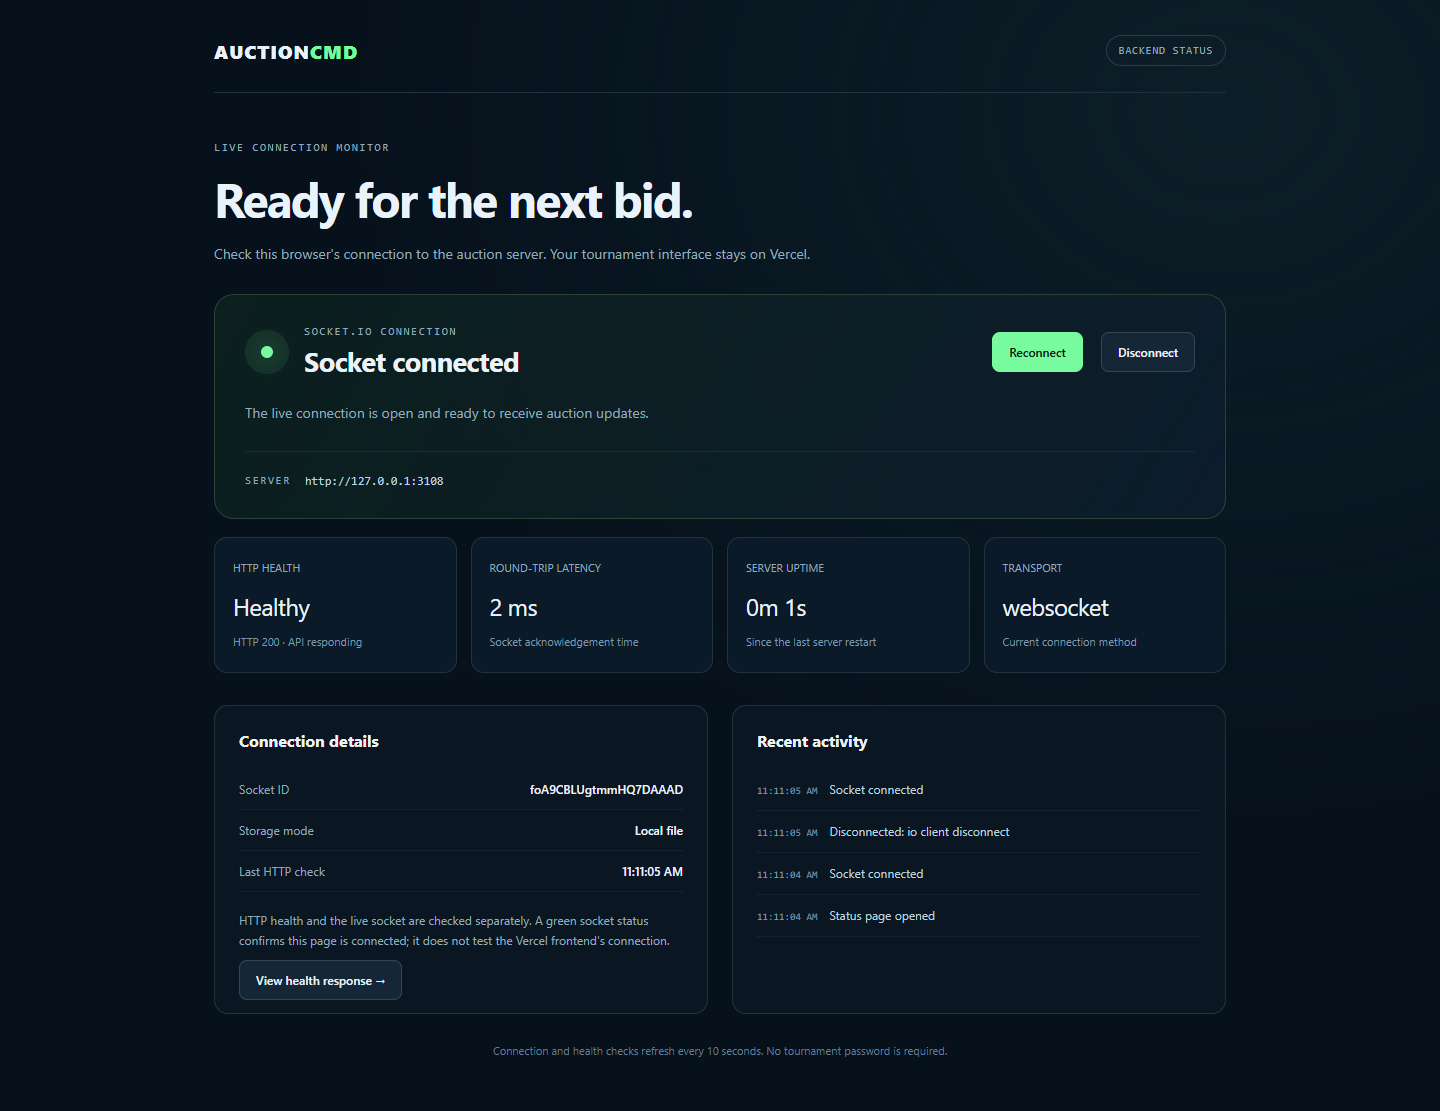
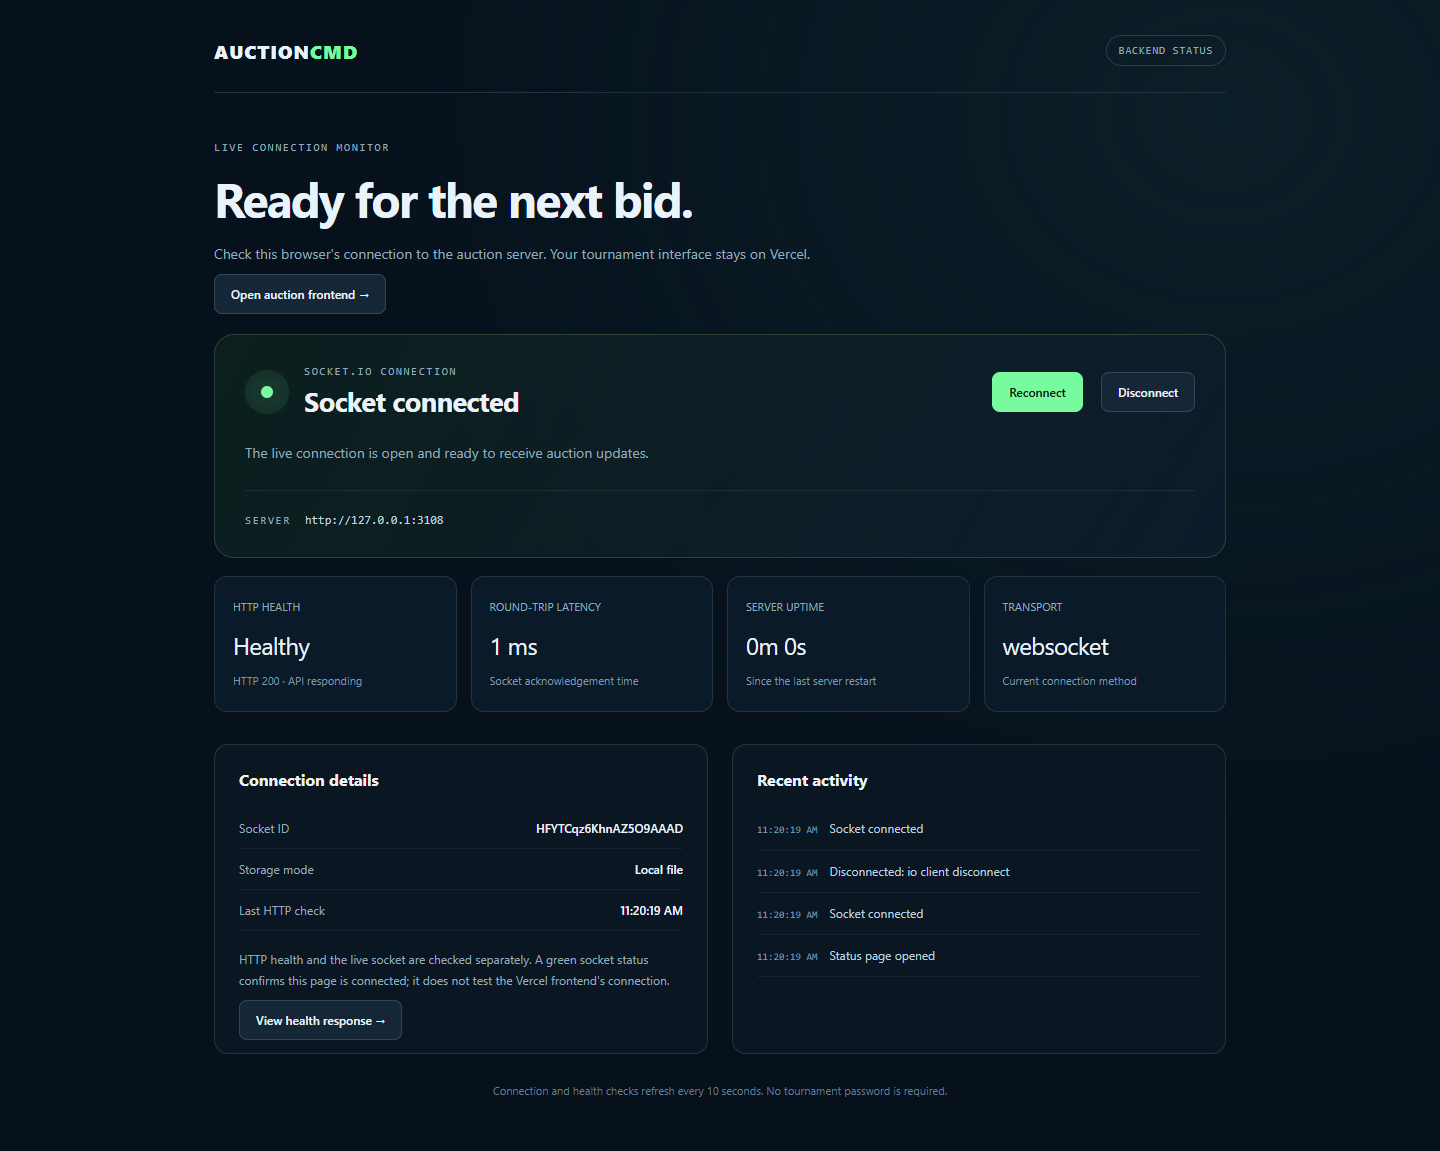
update connection

diff --git a/index.html b/index.html
@@ -1077,6 +1077,11 @@ input:focus, textarea:focus, select:focus { border-color: rgba(102,255,99,0.72);
 .room-recommendation .room-tile-footer { margin-top:auto;padding-top:20px; }
 @media(max-width:480px){.tournament-search-row{flex-wrap:wrap}.tournament-search-row #roomSearch{flex-basis:100%}.tournament-search-row button{min-height:42px}.room-results-heading{align-items:flex-start;flex-direction:column;gap:5px}}
 
+
+.frontend-connection{position:fixed;bottom:16px;left:16px;z-index:5500;display:flex;align-items:center;gap:9px;padding:10px 13px;border:1px solid #8f723b;border-radius:12px;background:#0b1b29f5;box-shadow:0 5px 24px #0005;font-size:11px;color:#f3d58e;max-width:calc(100vw - 32px)}
+.frontend-connection::before{content:'';width:7px;height:7px;border-radius:50%;background:currentColor;flex-shrink:0}.frontend-connection[data-state="connected"]{color:#83fba0;border-color:#31563d}.frontend-connection[data-state="disconnected"],.frontend-connection[data-state="error"]{color:#ffaaaa;border-color:#734149}.frontend-connection button{padding:3px 7px;font-size:10px;color:inherit}.delete-tournament-card{padding:20px;margin:20px 0;border:1px solid #ef444450;border-radius:14px;background:#ef444408}.delete-tournament-card p{color:var(--muted);line-height:1.7;margin:10px 0 16px}#deleteTournamentDialog{color:var(--text);margin:auto;max-height:90vh}#deleteTournamentDialog::backdrop{background:#000b;backdrop-filter:blur(8px)}
+@media(max-width:767px){body:has(#appContainer:not(.hidden)) .frontend-connection{bottom:calc(80px + env(safe-area-inset-bottom))}.frontend-connection{font-size:10px;padding:8px 10px}#deleteTournamentDialog{width:calc(100% - 24px)}}
+
 </style>
 </head>
 <body>
@@ -1096,6 +1101,19 @@ input:focus, textarea:focus, select:focus { border-color: rgba(102,255,99,0.72);
     <div class="loading-bar"><span></span></div>
   </div>
 </div>
+
+<div id="frontendConnection" class="frontend-connection" data-state="connecting"><span id="frontendConnectionText" role="status" aria-live="polite">Connecting to auction server...</span><button id="frontendReconnect" type="button" class="ghost small hidden" onclick="reconnectAuctionServer()">Reconnect</button></div>
+<dialog id="deleteTournamentDialog" class="portal-card">
+  <h2 style="font-size:30px;margin-bottom:12px">Delete tournament?</h2>
+  <p style="color:var(--muted);line-height:1.7;margin-bottom:20px">This permanently deletes this room, its teams, player database, and auction history. Everyone in the room will return to the lobby.</p>
+  <p id="deleteTournamentName" class="mono" style="margin-bottom:18px;overflow-wrap:anywhere"></p>
+  <form onsubmit="event.preventDefault();deleteTournament()">
+    <label for="deleteTournamentConfirm">Type the full tournament name</label><input id="deleteTournamentConfirm" required autocomplete="off">
+    <label for="deleteTournamentPassword">Admin password</label><input id="deleteTournamentPassword" type="password" required autocomplete="current-password">
+    <p id="deleteTournamentError" role="alert" style="color:var(--danger);margin-bottom:14px"></p>
+    <div style="display:flex;gap:10px;flex-wrap:wrap"><button id="confirmDeleteTournament" class="red" type="submit">Permanently delete tournament</button><button class="ghost" type="button" onclick="document.getElementById('deleteTournamentDialog').close()">Cancel</button></div>
+  </form>
+</dialog>
 
 <div id="portal">
   <div class="room-lobby">
@@ -1371,6 +1389,7 @@ input:focus, textarea:focus, select:focus { border-color: rgba(102,255,99,0.72);
           </div>
         </div>
         <div class="glass" style="padding:20px;margin-bottom:20px"><h3 style="font-size:23px;margin-bottom:12px">Room access</h3><p id="roomAccessInfo" class="mono" style="color:var(--muted);margin-bottom:12px"></p><label for="updateViewerPassword">New viewer password</label><input id="updateViewerPassword" type="password" minlength="8" placeholder="At least 8 characters"><button class="ghost" onclick="saveViewerPassword()">Update viewer password</button><button class="ghost" onclick="copyRoomLink()" style="margin-left:8px">Copy room link</button></div>
+              <div class="delete-tournament-card"><h3 style="font-size:24px">Delete tournament</h3><p>Permanently remove this tournament and all of its auction data.</p><button type="button" class="red" onclick="openDeleteTournament()">Delete tournament</button></div>
               <div id="teamsConfigContainer" style="max-height:70vh;overflow-y:auto;padding:2px"></div>
       </div>
     </div>
@@ -1545,6 +1564,24 @@ function createOfflineSocket() {
   };
 }
 const socket = window.io ? io(BACKEND_URL, { transports: ["websocket"] }) : createOfflineSocket();
+function updateFrontendConnection(state, message) {
+  document.getElementById('frontendConnection').dataset.state = state;
+  document.getElementById('frontendConnectionText').textContent = message;
+  document.getElementById('frontendReconnect').classList.toggle('hidden', state === 'connected' || state === 'connecting');
+}
+window.reconnectAuctionServer = () => {
+  if (!socket.connect) { location.reload(); return; }
+  updateFrontendConnection('connecting', 'Connecting to auction server...'); socket.connect();
+};
+socket.on('connect', () => {
+  updateFrontendConnection('connected', 'Auction server connected');
+  if (document.getElementById('portalMsg').textContent.startsWith('Cannot reach the room server')) document.getElementById('portalMsg').textContent = '';
+});
+socket.on('disconnect', () => { restoringSession = false; updateFrontendConnection('disconnected', 'Server disconnected. Live bidding unavailable.'); });
+socket.on('connect_error', () => updateFrontendConnection('error', 'Connection failed. Retrying...'));
+socket.io?.on('reconnect_attempt', () => updateFrontendConnection('reconnecting', 'Reconnecting to auction server...'));
+if (socket.connected) updateFrontendConnection('connected', 'Auction server connected');
+else if (!window.io) updateFrontendConnection('error', 'Socket client unavailable');
 if (!window.io) {
   document.documentElement.classList.remove('restore-session');
   window.__hideAuctionLoader?.(650);
@@ -1978,6 +2015,35 @@ window.openAuctionRoom = id => {
   document.getElementById('roomDialogTitle').textContent=room.name; document.getElementById('roomDialogEyebrow').textContent='ENTER YOUR ARENA'; document.getElementById('selectedRoomCode').textContent='ROOM / '+id;
   document.getElementById('mUser').value=id; document.getElementById('pHostId').value=id; document.getElementById('mPass').value=''; document.getElementById('roomDialogMsg').textContent=''; selectLoginRole('manager'); document.getElementById('roomDialog').showModal();
 };
+window.openDeleteTournament = () => {
+  if (CURRENT_USER.role !== 'admin' || !STATE.room) return;
+  document.getElementById('deleteTournamentName').textContent = STATE.room.name;
+  document.getElementById('deleteTournamentConfirm').value = '';
+  document.getElementById('deleteTournamentPassword').value = '';
+  document.getElementById('deleteTournamentError').textContent = '';
+  document.getElementById('confirmDeleteTournament').disabled = false;
+  document.getElementById('deleteTournamentDialog').showModal();
+};
+window.deleteTournament = () => {
+  const error = document.getElementById('deleteTournamentError');
+  if (!socket.connected) { error.textContent = 'Reconnect to the server before deleting a tournament.'; return; }
+  const name = document.getElementById('deleteTournamentConfirm').value;
+  if (name !== STATE.room?.name) { error.textContent = 'The tournament name does not match.'; return; }
+  document.getElementById('confirmDeleteTournament').disabled = true;
+  error.textContent = 'Deleting tournament...';
+  socket.timeout(15000).emit('room:delete', { name, password: document.getElementById('deleteTournamentPassword').value }, (timeout, result) => {
+    document.getElementById('confirmDeleteTournament').disabled = false;
+    if (timeout || !result?.ok) error.textContent = timeout ? 'No confirmation received. Reconnect and check the room list before trying again.' : result.error;
+  });
+};
+socket.on('room:deleted', data => {
+  if (CURRENT_USER.hostId !== data.hostId) return;
+  localStorage.removeItem(SESSION_KEY);
+  sessionStorage.setItem('auctioncmd.roomNotice', 'Tournament "' + data.name + '" was deleted by its admin.');
+  location.replace(location.pathname);
+});
+const roomNotice = sessionStorage.getItem('auctioncmd.roomNotice');
+if (roomNotice) { document.getElementById('portalMsg').textContent = roomNotice; sessionStorage.removeItem('auctioncmd.roomNotice'); }
 window.saveViewerPassword = () => { const password=document.getElementById('updateViewerPassword').value; if(password.length<8)return showToast('Use at least 8 characters'); socket.emit('room:viewer_password',{password}); };
 socket.on('team:database_saved', d => showToast(d.count + ' players added to the tournament database'));
 socket.on('room:password_saved', () => {document.getElementById('updateViewerPassword').value='';showToast('Viewer password updated');});

diff --git a/socket/server.js b/socket/server.js
@@ -58,6 +58,7 @@ const PORT = process.env.PORT || 3000;
 // =========================================================
 let MANAGERS = { 'admin': 'admin' };
 let LEAGUES = {};
+const DELETING_ROOMS = new Set();
 
 function findManagerKey(hostId) {
     if (!hostId) return null;
@@ -601,12 +602,12 @@ function debouncedSaveToFirebase() {
     }, 1500); 
 }
 
-async function immediateSaveToFirebase() {
+async function immediateSaveToFirebase({ throwOnError = false } = {}) {
     try {
         LEAGUES['admin'] = STATE;
         if(!DOC_REF) {saveLocalState();return;}
         await DOC_REF.set({ managers: MANAGERS, leagues: LEAGUES, defaultLeague: STATE });
-    } catch (e) {}
+    } catch (e) { if (throwOnError) throw e; }
 }
 
 async function loadFromFirebase() {
@@ -806,6 +807,7 @@ io.on('connection', (socket) => {
     // Join live channels only after authentication.
     // State is delivered only after room authentication.
     socket.use(([event],next) => {
+        if(DELETING_ROOMS.has(socket.data.hostId) && !['status:ping','rooms:list'].includes(event))return;
         if(['team:activateImpact','rtm:lockImpact','rtm:invoke','rtm:respond'].includes(event)&&!['team','admin'].includes(socket.data.role))return socket.emit('auth:team_error','Authenticated team access required');
         if(event.startsWith('admin:') && socket.data.role!=='admin')return socket.emit('auth:team_error','Admin access required');
         if(['players:save','players:clear','schedule:save','schedule:reset'].includes(event) && socket.data.role!=='admin')return socket.emit('auth:team_error','Team or admin access required');
@@ -822,6 +824,36 @@ io.on('connection', (socket) => {
         for(const room of socket.rooms)if(room!==socket.id)socket.leave(room);
         socket.data={role:'admin',hostId:id,teamId:null};socket.join(`host:${id.toLowerCase()}`);socket.join(`admin:${id.toLowerCase()}`);
         await immediateSaveToFirebase();socket.emit('manager:logged_in',{username:id,state:publicState(league,true)});io.emit('rooms:list',roomList());
+    });
+    socket.on('room:delete', async (data = {}, acknowledge) => {
+        if (typeof acknowledge !== 'function') return;
+        const hostId = socket.data.hostId;
+        const league = LEAGUES[hostId];
+        if (socket.data.role !== 'admin' || !league?.room) return acknowledge({ok:false,error:'Only this tournament admin can delete it.'});
+        if (typeof data.password !== 'string' || data.password.length > 128 || !matchesPassword(data.password, MANAGERS[hostId])) return acknowledge({ok:false,error:'Incorrect admin password.'});
+        if (data.name !== league.room.name) return acknowledge({ok:false,error:'The tournament name does not match.'});
+        DELETING_ROOMS.add(hostId);
+        const wasBidding = league.biddingActive;
+        const timer = getHostTimer(hostId); const remaining = timer.time; const wasPaused = timer.paused;
+        pauseHostTimer(hostId);
+        const credential = MANAGERS[hostId];
+        delete LEAGUES[hostId]; delete MANAGERS[hostId];
+        try {
+            await immediateSaveToFirebase({throwOnError:true});
+        } catch (error) {
+            LEAGUES[hostId] = league; MANAGERS[hostId] = credential; DELETING_ROOMS.delete(hostId);
+            if (wasBidding && !wasPaused) startHostTimer(hostId, remaining);
+            return acknowledge({ok:false,error:'Could not save the deletion. The tournament has been kept. Please try again.'});
+        }
+        for (const client of io.sockets.sockets.values()) {
+            if (client.data.hostId !== hostId) continue;
+            client.emit('room:deleted', {hostId,name:league.room.name});
+            client.leave(`host:${hostId.toLowerCase()}`); client.leave(`admin:${hostId.toLowerCase()}`);
+            client.data = {};
+        }
+        for (const key of Object.keys(TIMERS)) if (key.toLowerCase() === hostId.toLowerCase()) delete TIMERS[key];
+        DELETING_ROOMS.delete(hostId);
+        acknowledge({ok:true}); io.emit('rooms:list',roomList());
     });
     socket.on('room:viewer_password',async ({password}={})=>{
         if(socket.data.role!=='admin'||typeof password!=='string'||password.length<8||password.length>128)return;

diff --git a/socket/status.html b/socket/status.html
@@ -24,7 +24,7 @@
 <body>
 <main>
   <header><div class="brand">AUCTION<span>CMD</span></div><span class="tag">BACKEND STATUS</span></header>
-  <div class="heading"><div><div class="eyebrow">LIVE CONNECTION MONITOR</div><h1>Ready for the next bid.</h1><p>Check this browser's connection to the auction server. Your tournament interface stays on Vercel.</p></div></div>
+  <div class="heading"><div><div class="eyebrow">LIVE CONNECTION MONITOR</div><h1>Ready for the next bid.</h1><p>Check this browser's connection to the auction server. Your tournament interface stays on Vercel.</p><p style="margin-top:16px"><a href="https://auction-three-lake.vercel.app/" target="_blank" rel="noopener">Open auction frontend &rarr;</a></p></div></div>
   <section id="connectionPanel" class="panel" data-state="connecting" aria-labelledby="connectionTitle">
     <div class="panel-top"><div class="connection"><div class="signal" aria-hidden="true"></div><div><div class="eyebrow">SOCKET.IO CONNECTION</div><h2 id="connectionTitle" role="status" aria-live="polite">Connecting...</h2></div></div><div class="actions"><button id="reconnectButton" class="primary" type="button">Reconnect</button><button id="disconnectButton" type="button">Disconnect</button></div></div>
     <p id="connectionNote" class="connection-note">Opening a live connection to this server.</p>

diff --git a/socket/README.md b/socket/README.md
@@ -45,3 +45,16 @@ The Docker image includes `socket/status.html`. Push it together with the update
 Dockerfile and server before deploying. Local file storage inside the container
 is temporary unless backed by a persistent disk; keep Firebase configured for
 persistent tournament data across redeploys.
+
+
+## Frontend status and tournament deletion
+
+The frontend is https://auction-three-lake.vercel.app/. Its connection badge is
+visible in the lobby and inside rooms, with reconnect controls when offline.
+The backend status page links to this frontend.
+
+An authenticated admin can delete their tournament from Team Config > Delete
+tournament. The confirmation requires the exact tournament name and admin
+password. Deletion removes that room and its saved auction data, revokes its
+connected participants, and refreshes the room directory. Other rooms remain.
+Deploy the updated frontend on Vercel and backend on Render together.
